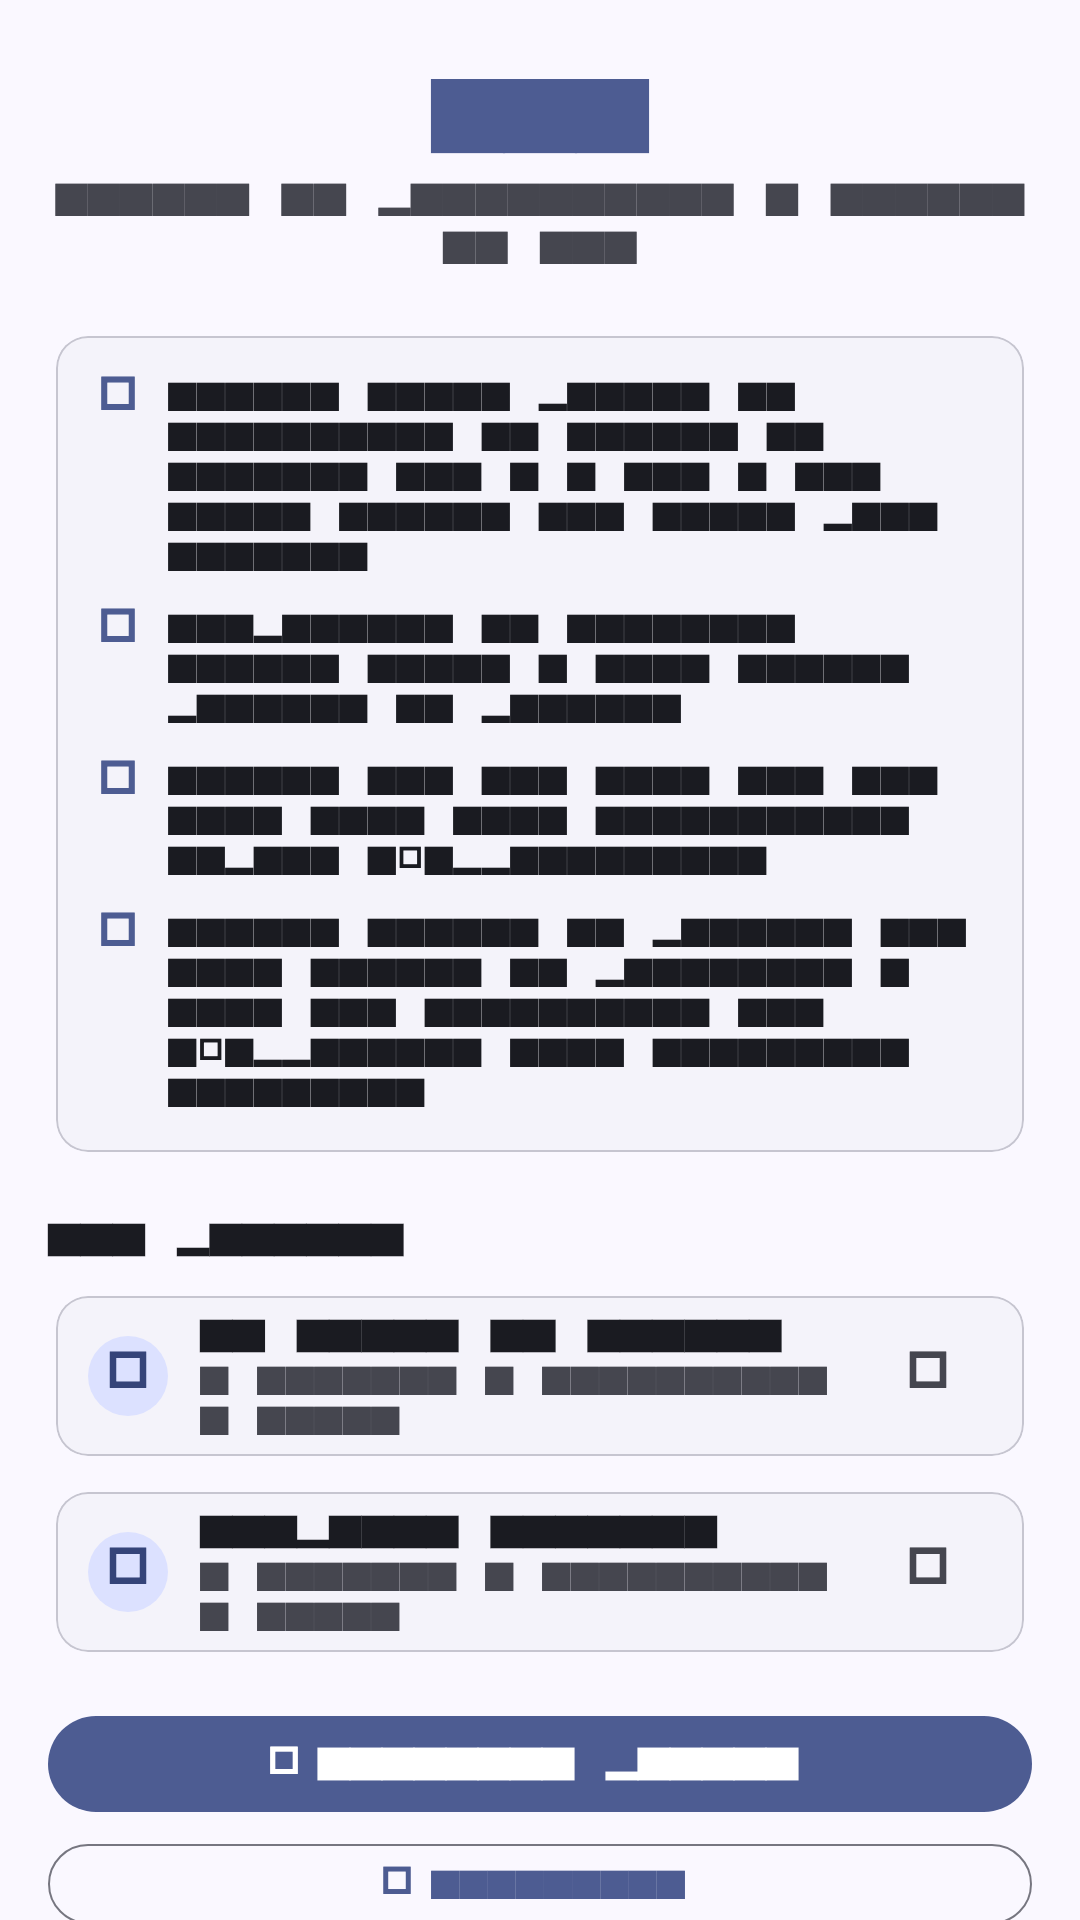
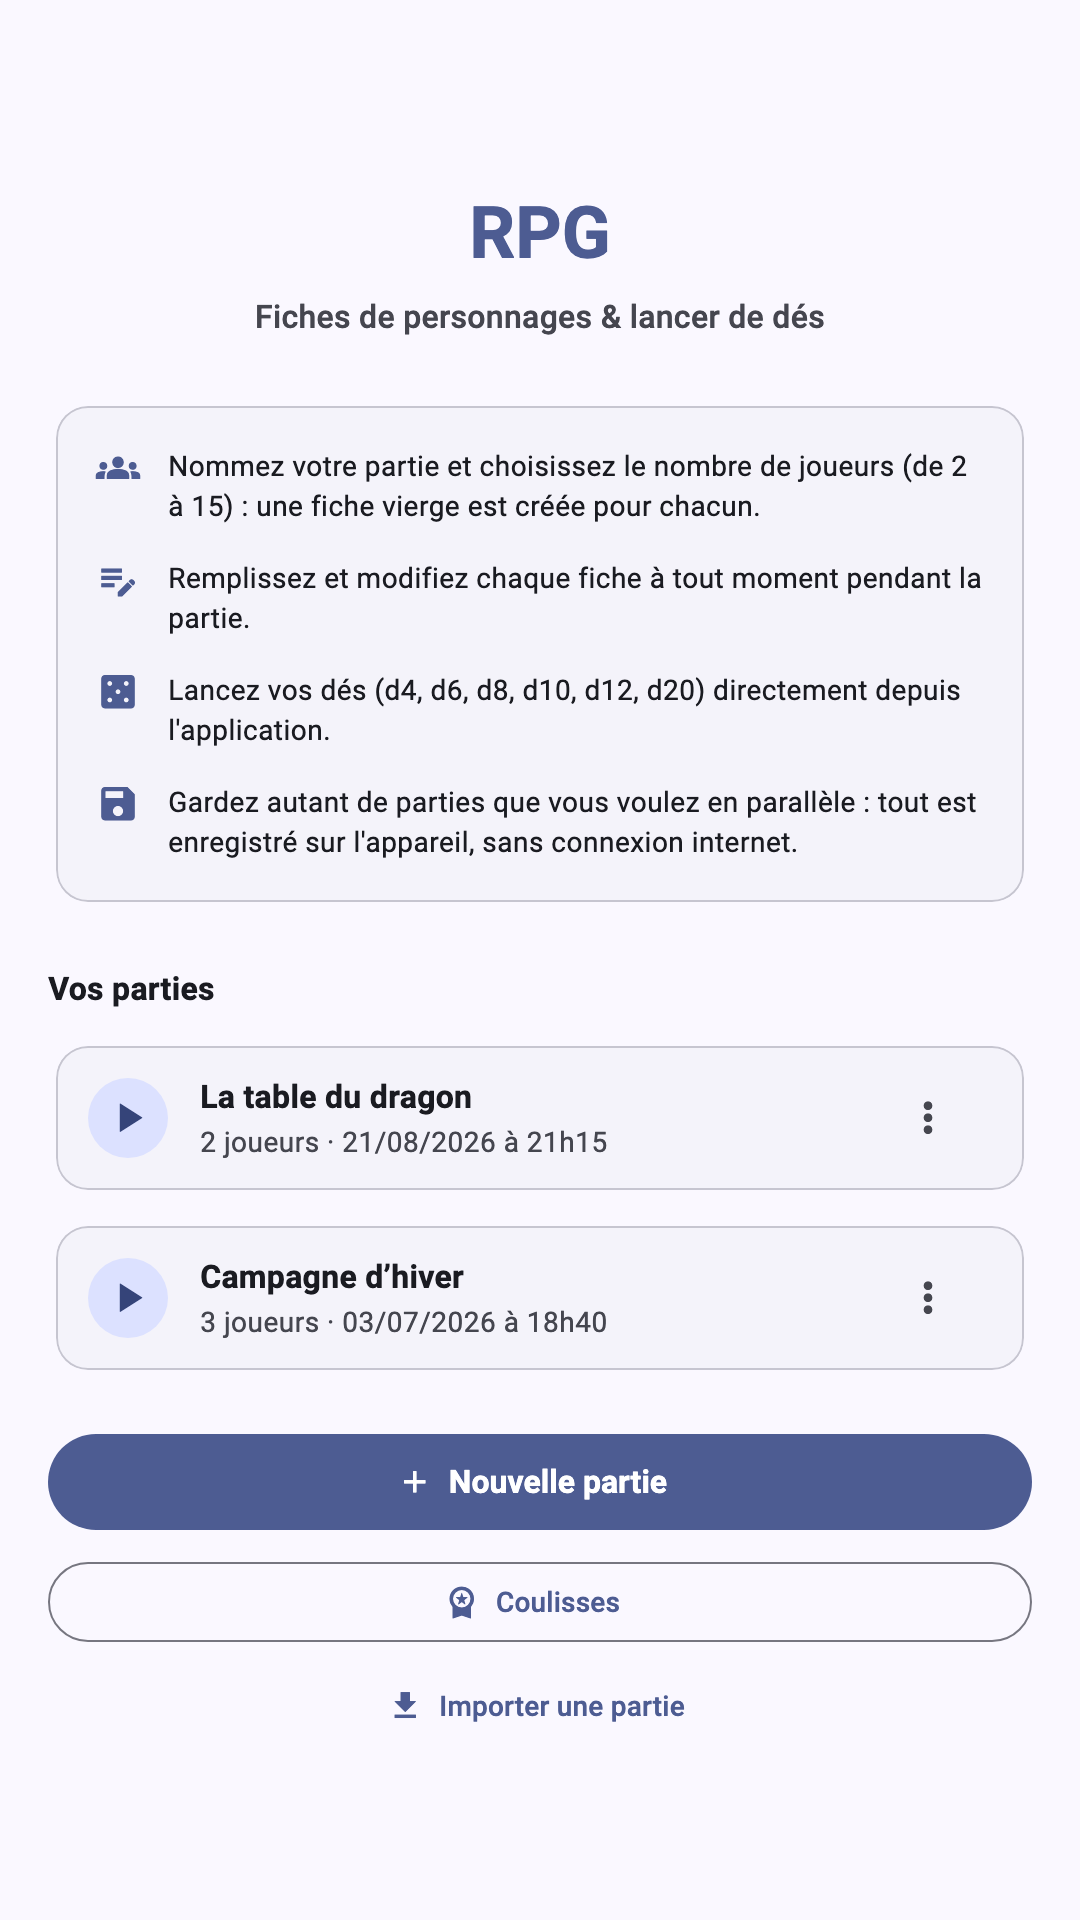
ajout de description et impression d'ecran

diff --git a/test/captures_boutique_test.dart b/test/captures_boutique_test.dart
@@ -3,6 +3,7 @@ import 'dart:io';
 import 'dart:ui' as ui;
 
 import 'package:flutter/material.dart';
+import 'package:flutter/services.dart';
 import 'package:flutter_test/flutter_test.dart';
 import 'package:rpg/ecrans/accueil.dart';
 import 'package:rpg/ecrans/coulisses.dart';
@@ -22,6 +23,9 @@ import 'package:shared_preferences/shared_preferences.dart';
 /// ```
 void main() {
   testWidgets('génère les captures Play Store', (tester) async {
+    await _chargerPolices();
+    // Les tests remplacent les ombres par un trait noir : on les rétablit.
+    debugDisableShadows = false;
     tester.view.physicalSize = const Size(1080, 1920);
     tester.view.devicePixelRatio = 2.0;
     addTearDown(tester.view.reset);
@@ -41,11 +45,29 @@ void main() {
     await tester.pumpAndSettle();
     await _enregistrer(tester, '03-fiche-personnage');
 
+    // Le résumé de la classe, en haut de l'écran.
+    final modifier = find.text('Modifier');
+    await tester.scrollUntilVisible(
+      modifier,
+      300,
+      scrollable: find.byType(Scrollable).first,
+    );
+    // Saut immédiat, sans animation : rien à attendre.
+    Scrollable.ensureVisible(tester.element(modifier), alignment: 0.02);
+    await tester.pumpAndSettle();
+    await _enregistrer(tester, '04-resume-classe');
+
+    await tester.tap(modifier);
+    await tester.pumpAndSettle();
+    await _enregistrer(tester, '05-page-classe');
+
+    await tester.pageBack();
+    await tester.pumpAndSettle();
     await tester.pageBack();
     await tester.pumpAndSettle();
     await tester.tap(find.text('Meneur de jeu'));
     await tester.pumpAndSettle();
-    await _enregistrer(tester, '04-meneur-de-jeu');
+    await _enregistrer(tester, '06-meneur-de-jeu');
 
     await tester.tap(find.text('Lancer les dés'));
     await tester.pumpAndSettle();
@@ -56,7 +78,7 @@ void main() {
     await tester.pumpAndSettle();
     await tester.tap(find.text('2. Appuyez sur les dés pour les lancer'));
     await tester.pumpAndSettle(const Duration(seconds: 2));
-    await _enregistrer(tester, '05-lancer-de-des');
+    await _enregistrer(tester, '07-lancer-de-des');
 
     await tester.pageBack();
     await tester.pumpAndSettle();
@@ -68,8 +90,36 @@ void main() {
       accueil,
     ).push(MaterialPageRoute<void>(builder: (_) => const EcranCoulisses()));
     await tester.pumpAndSettle();
-    await _enregistrer(tester, '06-coulisses');
+    await _enregistrer(tester, '08-coulisses');
+
+    // Flutter vérifie, avant les tearDown, que la valeur est rétablie.
+    debugDisableShadows = true;
   }, skip: Platform.environment['GENERER_CAPTURES'] != '1');
+}
+
+/// Les tests dessinent le texte avec une police de blocs : on charge Roboto
+/// et les icônes Material du SDK pour que les captures ressemblent à
+/// l'application.
+Future<void> _chargerPolices() async {
+  final racine = Platform.environment['FLUTTER_ROOT']!;
+  final dossier = '$racine/bin/cache/artifacts/material_fonts';
+  final polices = {
+    'Roboto': [
+      'Roboto-Regular.ttf',
+      'Roboto-Italic.ttf',
+      'Roboto-Medium.ttf',
+      'Roboto-Bold.ttf',
+    ],
+    'MaterialIcons': ['MaterialIcons-Regular.otf'],
+  };
+  for (final MapEntry(key: famille, value: fichiers) in polices.entries) {
+    final chargeur = FontLoader(famille);
+    for (final fichier in fichiers) {
+      final octets = File('$dossier/$fichier').readAsBytesSync();
+      chargeur.addFont(Future.value(ByteData.sublistView(octets)));
+    }
+    await chargeur.load();
+  }
 }
 
 Future<void> _enregistrer(WidgetTester tester, String nom) async {
@@ -170,10 +220,31 @@ Map<String, Object> _sauvegardeVitrine() {
         nom: 'Gardien',
         modeleId: gardienId,
         competences: [
-          Competence(nom: 'Frappe vigoureuse', nc: 2, ncMax: 5),
-          Competence(nom: 'Provocation', nc: 1, ncMax: 3),
-          Competence(nom: 'Garde rapprochée', nc: 0, ncMax: 4),
-          Competence(nom: 'Rempart', nc: 0, ncMax: 1),
+          Competence(
+            nom: 'Frappe vigoureuse',
+            description: 'Une attaque puissante au corps à corps.',
+            nc: 2,
+            ncMax: 5,
+          ),
+          Competence(
+            nom: 'Provocation',
+            description: 'Attire l’attention des ennemis.',
+            nc: 1,
+            ncMax: 3,
+          ),
+          Competence(
+            nom: 'Garde rapprochée',
+            description: 'Protège un allié adjacent.',
+            nc: 0,
+            ncMax: 4,
+          ),
+        ],
+        competencesHeroiques: [
+          Competence(
+            nom: 'Rempart',
+            description: 'Devient inébranlable jusqu’à la fin du tour.',
+            ncMax: 1,
+          ),
         ],
       ),
     ],
@@ -208,6 +279,8 @@ Map<String, Object> _sauvegardeVitrine() {
         competences: [
           Competence(nom: 'Boule de feu', nc: 3, ncMax: 5),
           Competence(nom: 'Éclair', nc: 2, ncMax: 4),
+        ],
+        competencesHeroiques: [
           Competence(nom: 'Tempête intérieure', nc: 0, ncMax: 1),
         ],
         sorts: [Sort(nom: 'Étincelle', description: 'Une flamme brève.')],

diff --git a/lib/theme.dart b/lib/theme.dart
@@ -8,7 +8,7 @@ ThemeData _base(Brightness brightness) {
     seedColor: _graine,
     brightness: brightness,
   );
-  return ThemeData(
+  final theme = ThemeData(
     colorScheme: schema,
     useMaterial3: true,
     appBarTheme: AppBarTheme(
@@ -28,10 +28,17 @@ ThemeData _base(Brightness brightness) {
       border: OutlineInputBorder(),
       isDense: true,
     ),
+  );
+  // Le texte du gros bouton part de la typographie du thème, pour garder la
+  // police de la plateforme.
+  return theme.copyWith(
     filledButtonTheme: FilledButtonThemeData(
       style: FilledButton.styleFrom(
         minimumSize: const Size(0, 48),
-        textStyle: const TextStyle(fontSize: 16, fontWeight: FontWeight.w600),
+        textStyle: theme.textTheme.labelLarge?.copyWith(
+          fontSize: 16,
+          fontWeight: FontWeight.w600,
+        ),
       ),
     ),
   );

diff --git a/lib/modeles/modele_classe.dart b/lib/modeles/modele_classe.dart
@@ -50,10 +50,10 @@ class ModeleClasse {
   /// Ligne affichée sous le nom dans la liste des coulisses.
   String get resume {
     final nommees = competences.where((c) => c.nom.trim().isNotEmpty).length;
+    final sortsNommes = sorts.where((s) => s.nom.trim().isNotEmpty).length;
     final morceaux = [
       '$nommees ${nommees > 1 ? 'compétences' : 'compétence'}',
-      if (sorts.any((s) => s.nom.trim().isNotEmpty))
-        '${sorts.where((s) => s.nom.trim().isNotEmpty).length} sorts',
+      if (sortsNommes > 0) '$sortsNommes ${sortsNommes > 1 ? 'sorts' : 'sort'}',
       if (competenceHeroique.nom.trim().isNotEmpty) '1 compétence héroïque',
     ];
     // Les espaces insécables gardent chaque morceau d'un seul tenant : la

diff --git a/test/modeles_unitaires_test.dart b/test/modeles_unitaires_test.dart
@@ -13,7 +13,7 @@ void main() {
       ..competences[0].nom = 'A'
       ..competences[1].nom = 'B'
       ..sorts.add(Sort(nom: 'Bouclier'));
-    expect(plusieurs.resume, '2\u00A0compétences · 1\u00A0sorts');
+    expect(plusieurs.resume, '2\u00A0compétences · 1\u00A0sort');
   });
 
   test('ModeleClasse.depuisJson tolère des champs absents', () {

diff --git a/store/fiche-play.md b/store/fiche-play.md
@@ -27,38 +27,43 @@ RPG — fiches et dés
 Description courte (80 caractères max) :
 
 ```
-Fiches de perso, coulisses, monstres et dés. Tout reste sur l’appareil.
+Fiches de perso et dés, sans pub ni compte. Vos données restent sur l’appareil.
 ```
 
 ## Description longue
 
 ```
-RPG tient la table : fiches de personnages, classes des coulisses, fiches de monstres et lancer de dés. Aucune connexion internet n’est nécessaire. Les parties restent sur l’appareil, même si vous fermez l’application en pleine session.
+RPG est le compagnon de votre table de jeu de rôle : fiches de personnages, classes réutilisables, fiches de monstres et lancer de dés, dans une seule application.
 
-Page de garde
-Présentation, liste de vos parties et bouton Nouvelle partie. Vous donnez un nom à la table et choisissez de 2 à 15 joueurs : une fiche vierge est créée pour chacun. Le bouton Coulisses ouvre la bibliothèque de classes, indépendante des parties.
+★ Sans publicité, sans compte, sans collecte de données ★
+• Aucune publicité, jamais. Ni bannière, ni vidéo, ni achat intégré.
+• Aucun compte à créer, aucune adresse e-mail demandée.
+• Aucune donnée personnelle collectée ni partagée : pas de statistiques, pas de traceur, pas de service tiers.
+• Tout reste sur votre téléphone. Vos parties ne quittent jamais l'appareil.
+• Fonctionne entièrement hors ligne, même au fond d'une cave sans réseau.
 
-Pendant la partie
-Deux pages, que l’on fait défiler d’un balayage latéral.
-• Les héros — toutes les fiches, avec le niveau à droite du nom et un aperçu des PV, PM, PI et points de réussite. En bas, Ajouter un personnage.
-• Meneur de jeu — ouvrez-le en balayant de la droite vers la gauche. Ajoutez et tenez vos fiches de monstres.
+Des fiches de personnages complètes
+Nom, niveau, points de réussite, jauges PV / PM / PI, défense, défense magique, initiative (même négative), caractéristiques (d6 à d12), équipement, inventaire et zénits. Tout se modifie d'un geste pendant la partie, et tout est enregistré automatiquement.
 
-Fiche de personnage
-Tout est modifiable à tout moment : nom, niveau, points de réussite, jauges PV / PM / PI, défenses, initiative (qui peut être négative), caractéristiques (d6, d8, d10 ou d12), classes, compétences, sorts, équipement, inventaire et zénits. Une fiche neuve n’a aucune classe : vous en copiez une depuis les coulisses, ou vous en créez une vierge. La copie vit ensuite sur la fiche, sans modifier les coulisses.
+Des classes claires
+Sur la fiche, chaque classe tient dans un petit résumé : son nom et ses compétences avec leur niveau (NC). Un appui sur « Modifier » ouvre la classe en plein écran pour changer les compétences, leurs descriptions, leurs niveaux, les sorts et les compétences héroïques.
 
-Fiche de monstre
-Une fiche plus courte pour le feu de l’action : nom, niveau, PV, PM, équipement et compétences.
+Les coulisses : vos classes écrites une fois pour toutes
+Créez votre bibliothèque de classes (atouts, compétences avec NC maximum, sorts, compétence héroïque) et copiez-la sur n'importe quelle fiche, dans n'importe quelle partie.
 
-Coulisses
-Votre bibliothèque de classes, écrite une fois pour toutes. Nom, atouts gratuits, compétences (avec un NC maximum), sorts facultatifs et compétence héroïque. Ces pages survivent à la suppression d’une partie et servent à toutes les tables.
+L'espace du meneur de jeu
+Un balayage suffit pour passer des héros aux monstres. Ajoutez et suivez vos créatures : niveau, PV, PM, équipement et compétences.
 
-Lancer de dés
-d4, d6, d8, d10, d12 et d20. Plusieurs dés, y compris plusieurs fois le même. Le détail de chaque dé et le total s’affichent.
+Le lancer de dés
+d4, d6, d8, d10, d12 et d20. Combinez plusieurs dés, y compris plusieurs fois le même : le détail de chaque dé et le total s'affichent aussitôt.
 
 Plusieurs parties en parallèle
-Autant de tables que vous voulez. L’enregistrement est automatique à la moindre modification. Vous pouvez renommer, quitter (la partie est conservée) ou supprimer une table depuis la page de garde.
+De 2 à 15 joueurs par table, autant de tables que vous voulez. Renommez, quittez ou supprimez une partie depuis la page d'accueil. Vous pouvez ajouter ou retirer un joueur en pleine partie.
 
-L’application ne contient ni publicité, ni compte, ni achat.
+Votre table, vos données
+RPG ne demande aucune autorisation sensible : ni localisation, ni contacts, ni appareil photo, ni micro. Désinstaller l'application efface vos parties de l'appareil : personne d'autre n'en a jamais eu de copie.
+
+Bonne partie !
 ```
 
 Notes de version (1.0.0) :
@@ -75,7 +80,18 @@ Déposer dans *Fiche Play Store principale* :
 | --- | --- | --- |
 | Icône haute résolution | `store/icone-512.png` | 512 × 512, PNG 32 bits |
 | Graphique vedette | `store/graphique-vedette.png` | 1024 × 500, PNG |
-| Captures téléphone | `store/captures/*.png` | 1080 × 1920, au moins 2 |
+| Captures téléphone | `store/captures/*.png` | 1080 × 1920, 8 captures |
+
+Ordre conseillé des captures (c’est l’ordre des noms de fichiers) :
+
+1. `01-accueil.png` — page de garde et liste des parties
+2. `02-les-heros.png` — les fiches de la table, niveau à droite du nom
+3. `03-fiche-personnage.png` — identité, points de réussite, réserves
+4. `04-resume-classe.png` — résumé de classe en lecture seule
+5. `05-page-classe.png` — page « Modifier » : compétences, descriptions, NC
+6. `06-meneur-de-jeu.png` — fiches de monstres
+7. `07-lancer-de-des.png` — lancer de dés et total
+8. `08-coulisses.png` — bibliothèque de classes
 
 Regénérer les captures :
 
